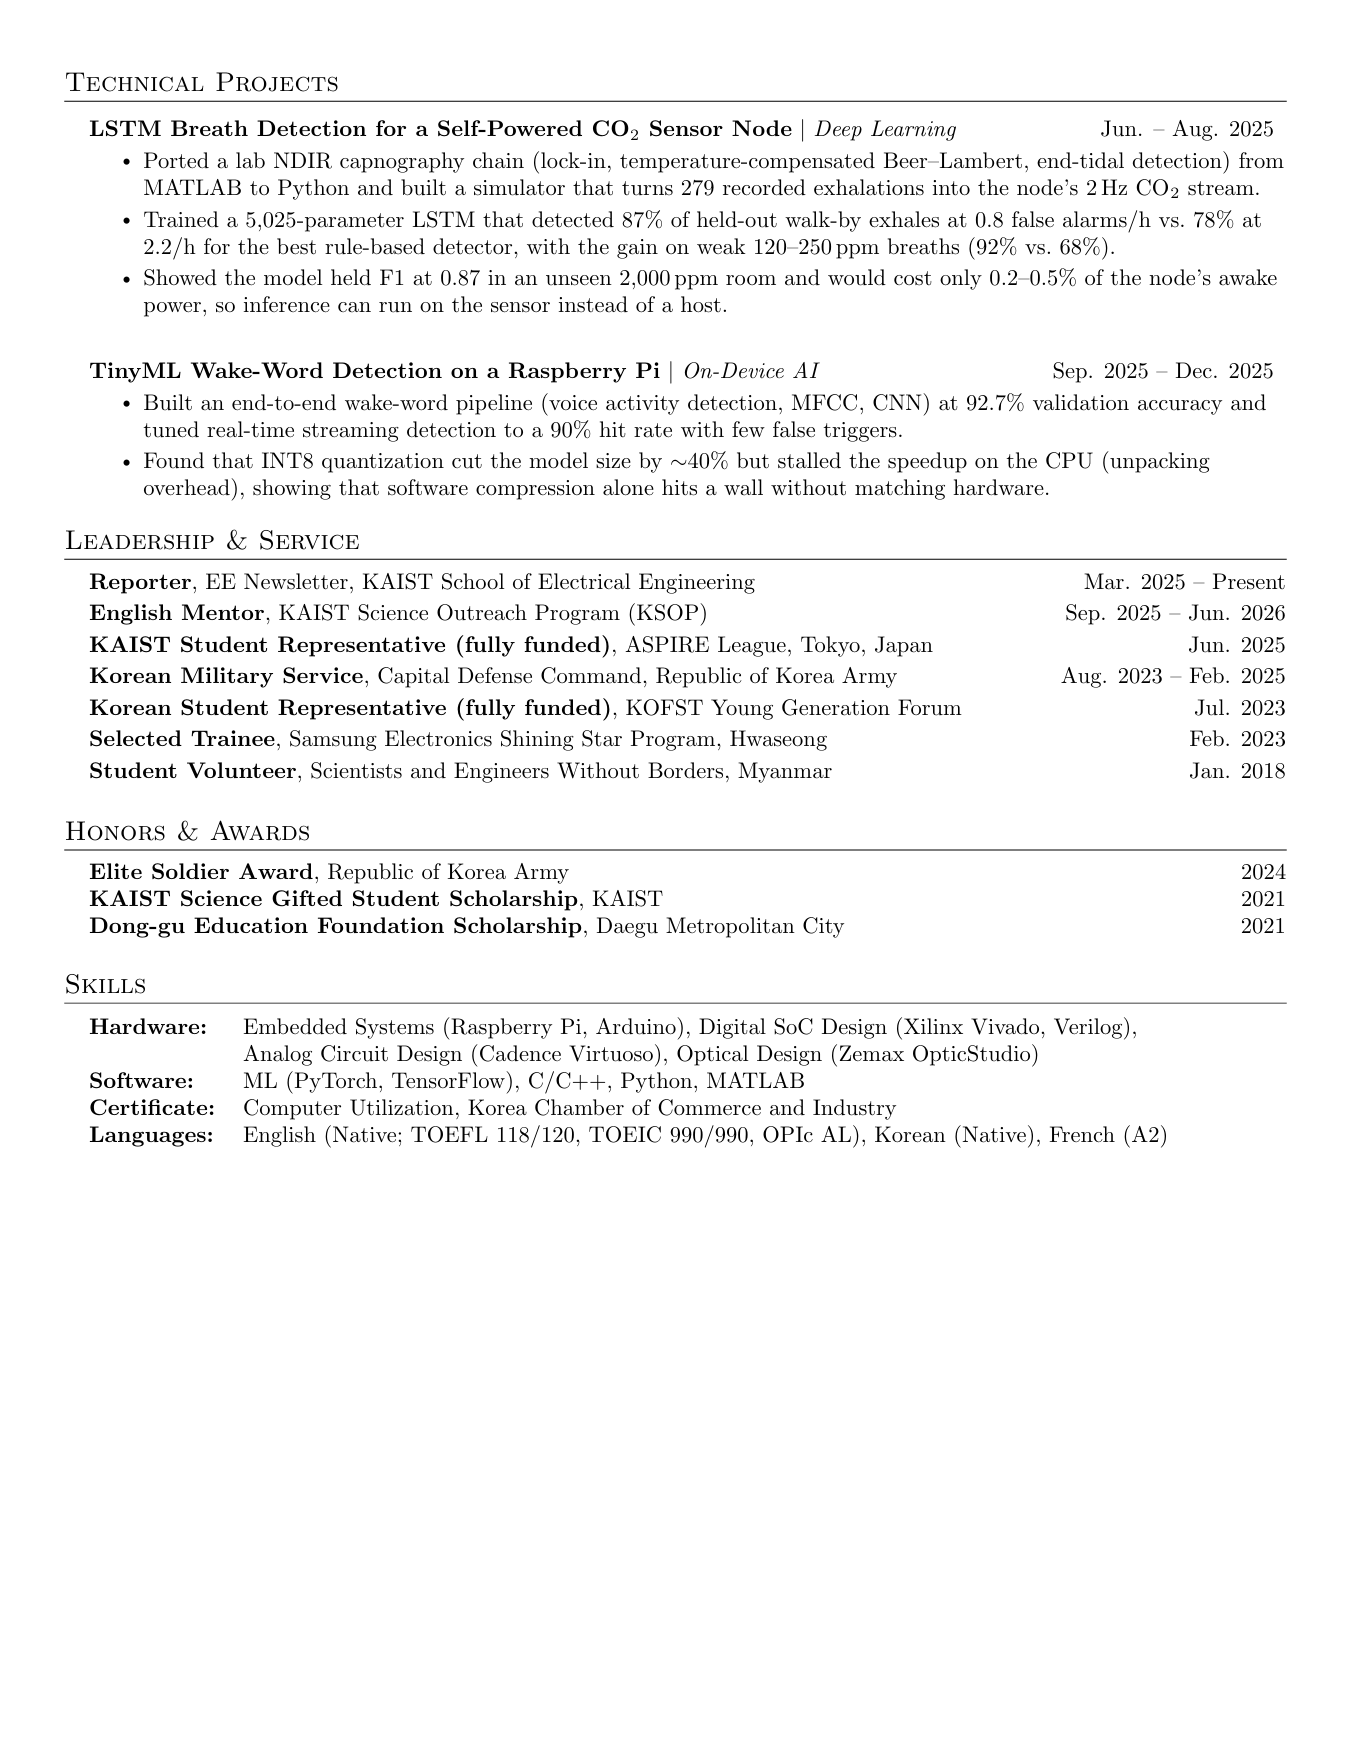
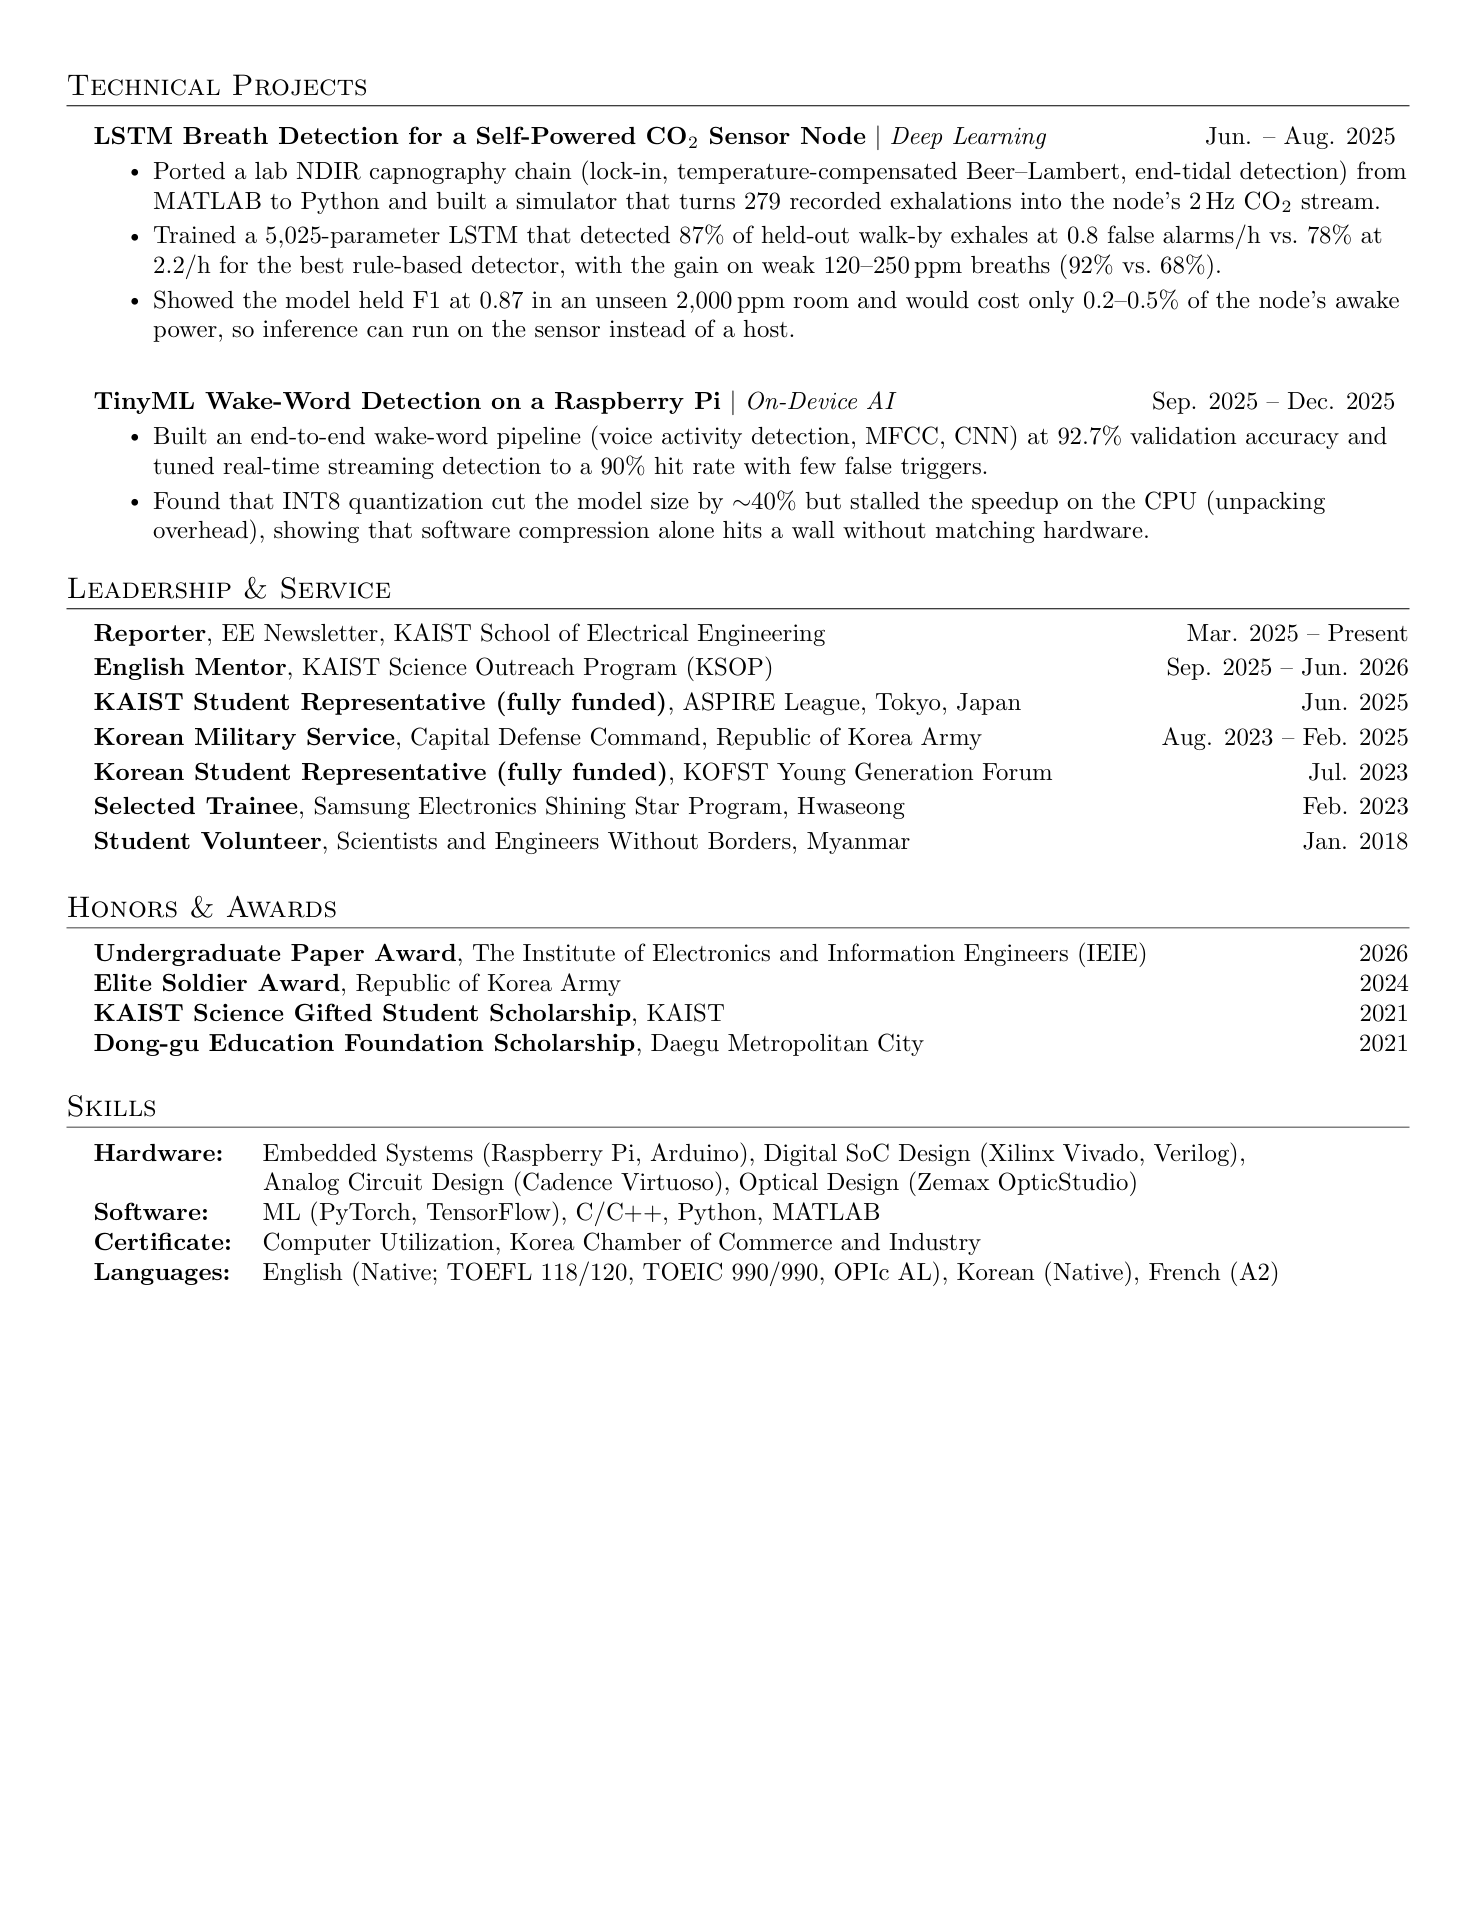
Add files via upload

diff --git a/index.html b/index.html
@@ -430,7 +430,7 @@ const SITE = {
   // The CV opens in a viewer on this page. "pages" are images of each CV page.
   // To link a PDF hosted elsewhere (for example Google Drive), paste its link in externalUrl.
   cv: {
-    pages: ["cv-1.PNG", "cv-2.PNG"],
+    pages: ["cv-1.png", "cv-2.png"],
     pdf: "cv.pdf",
     filename: "David_Jeehwan_Lee_CV.pdf",
     externalUrl: "",
@@ -717,6 +717,7 @@ const SITE = {
       { what: "**Student Volunteer**, Scientists and Engineers Without Borders, Myanmar", when: "Jan. 2018" },
     ],
     honors: [
+      { what: "**Undergraduate Paper Award**, The Institute of Electronics and Information Engineers (IEIE)", when: "2026"},
       { what: "**Elite Soldier Award**, Republic of Korea Army", when: "2024" },
       { what: "**KAIST Science Gifted Student Scholarship**, KAIST", when: "2021" },
       { what: "**Dong-gu Education Foundation Scholarship**, Daegu Metropolitan City", when: "2021" },
